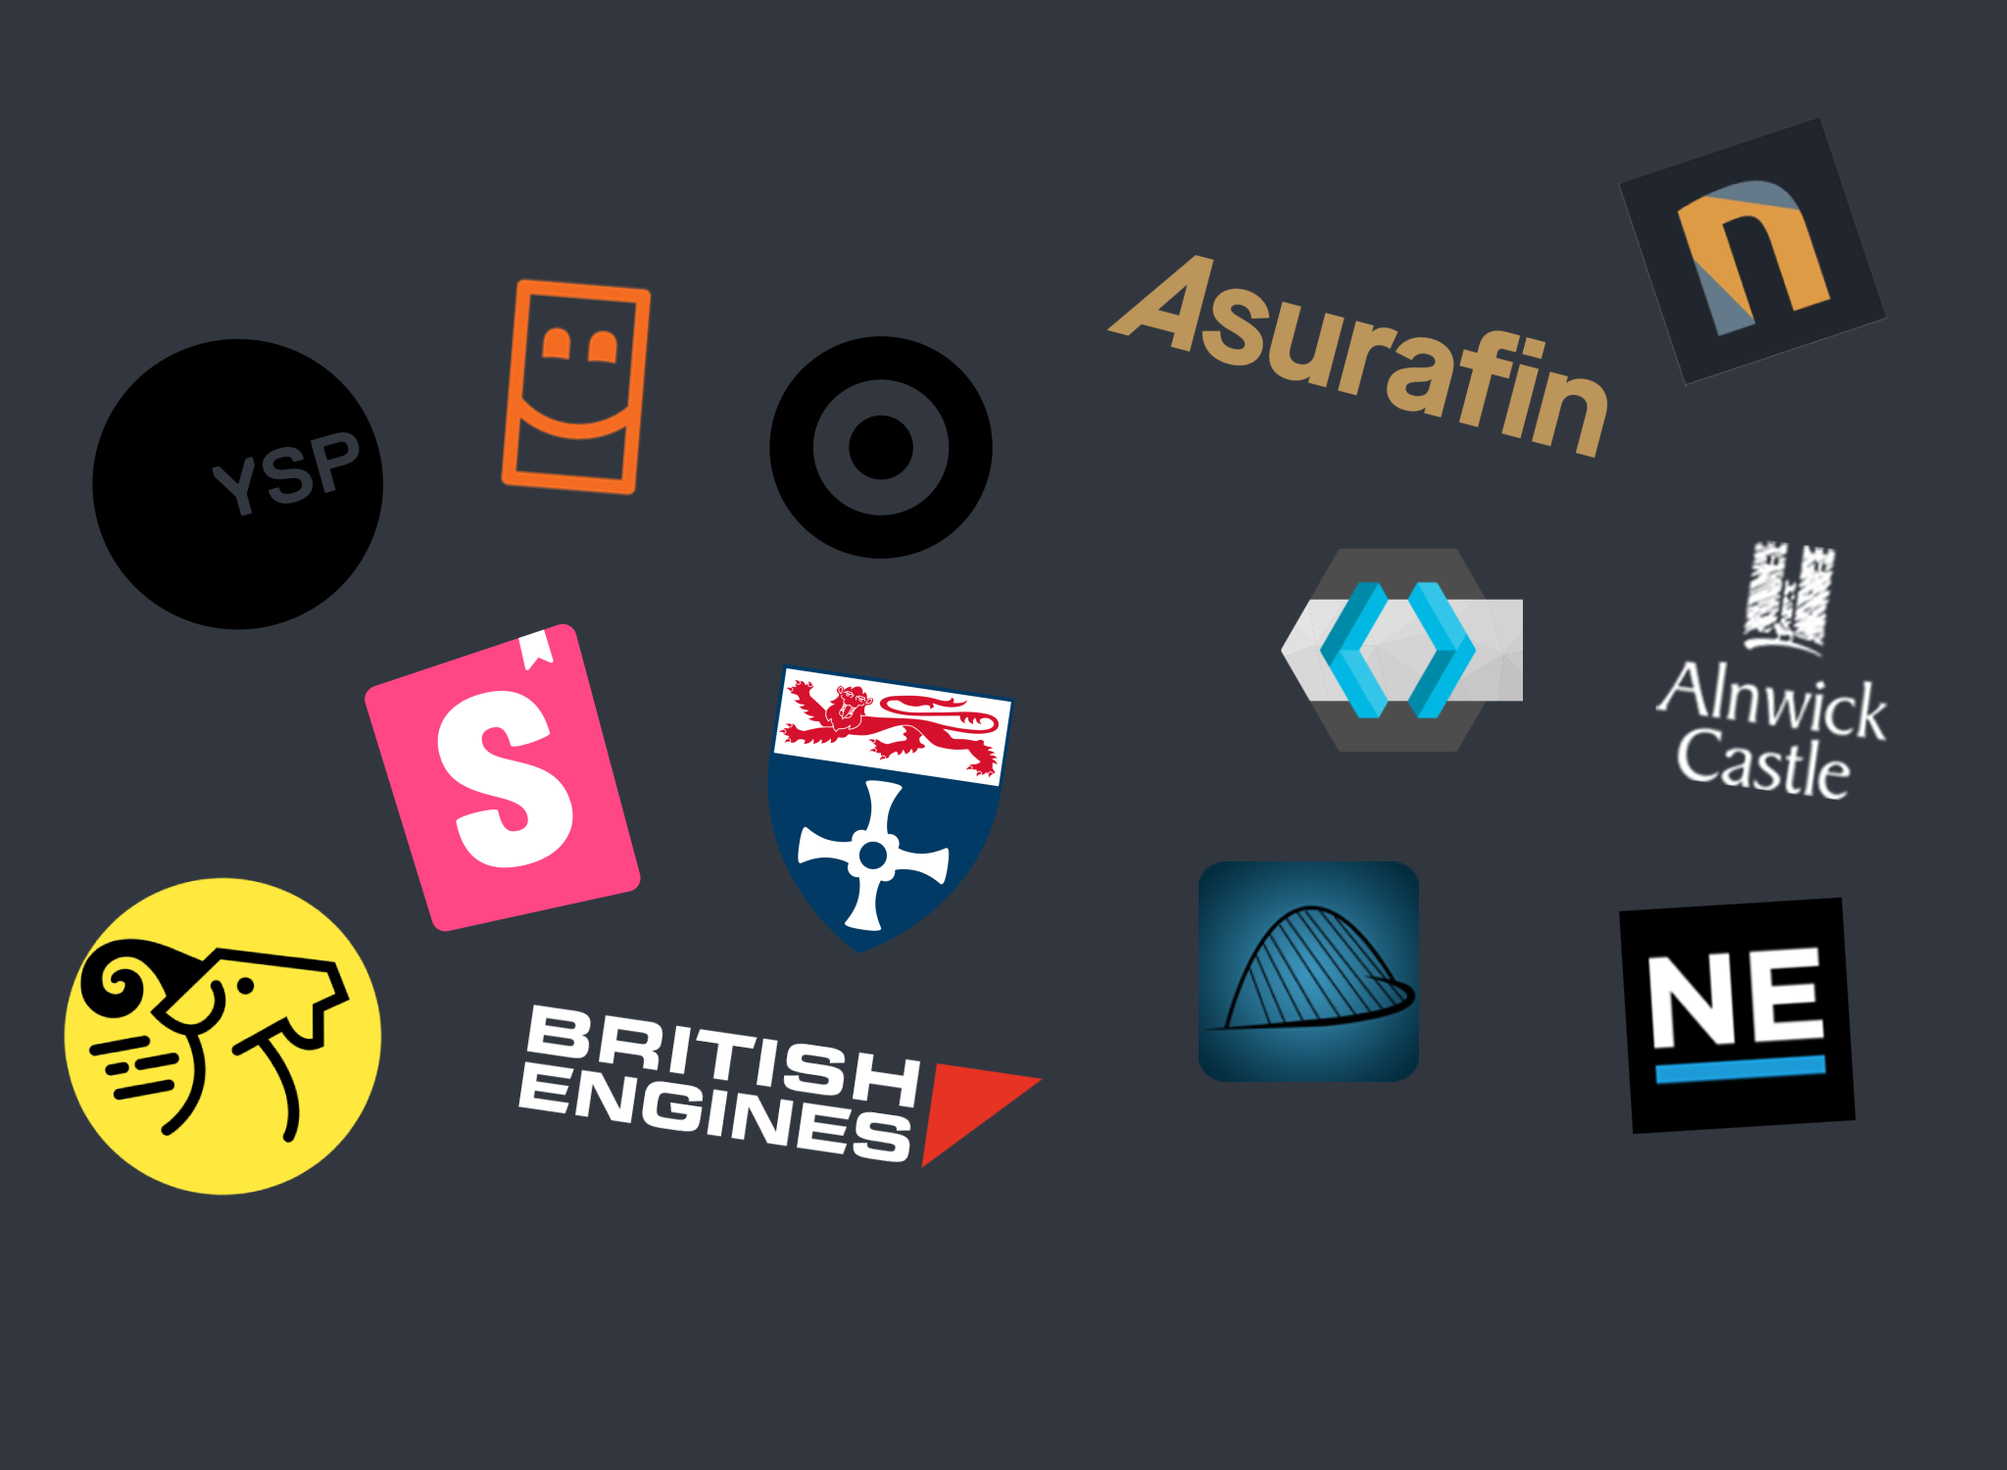
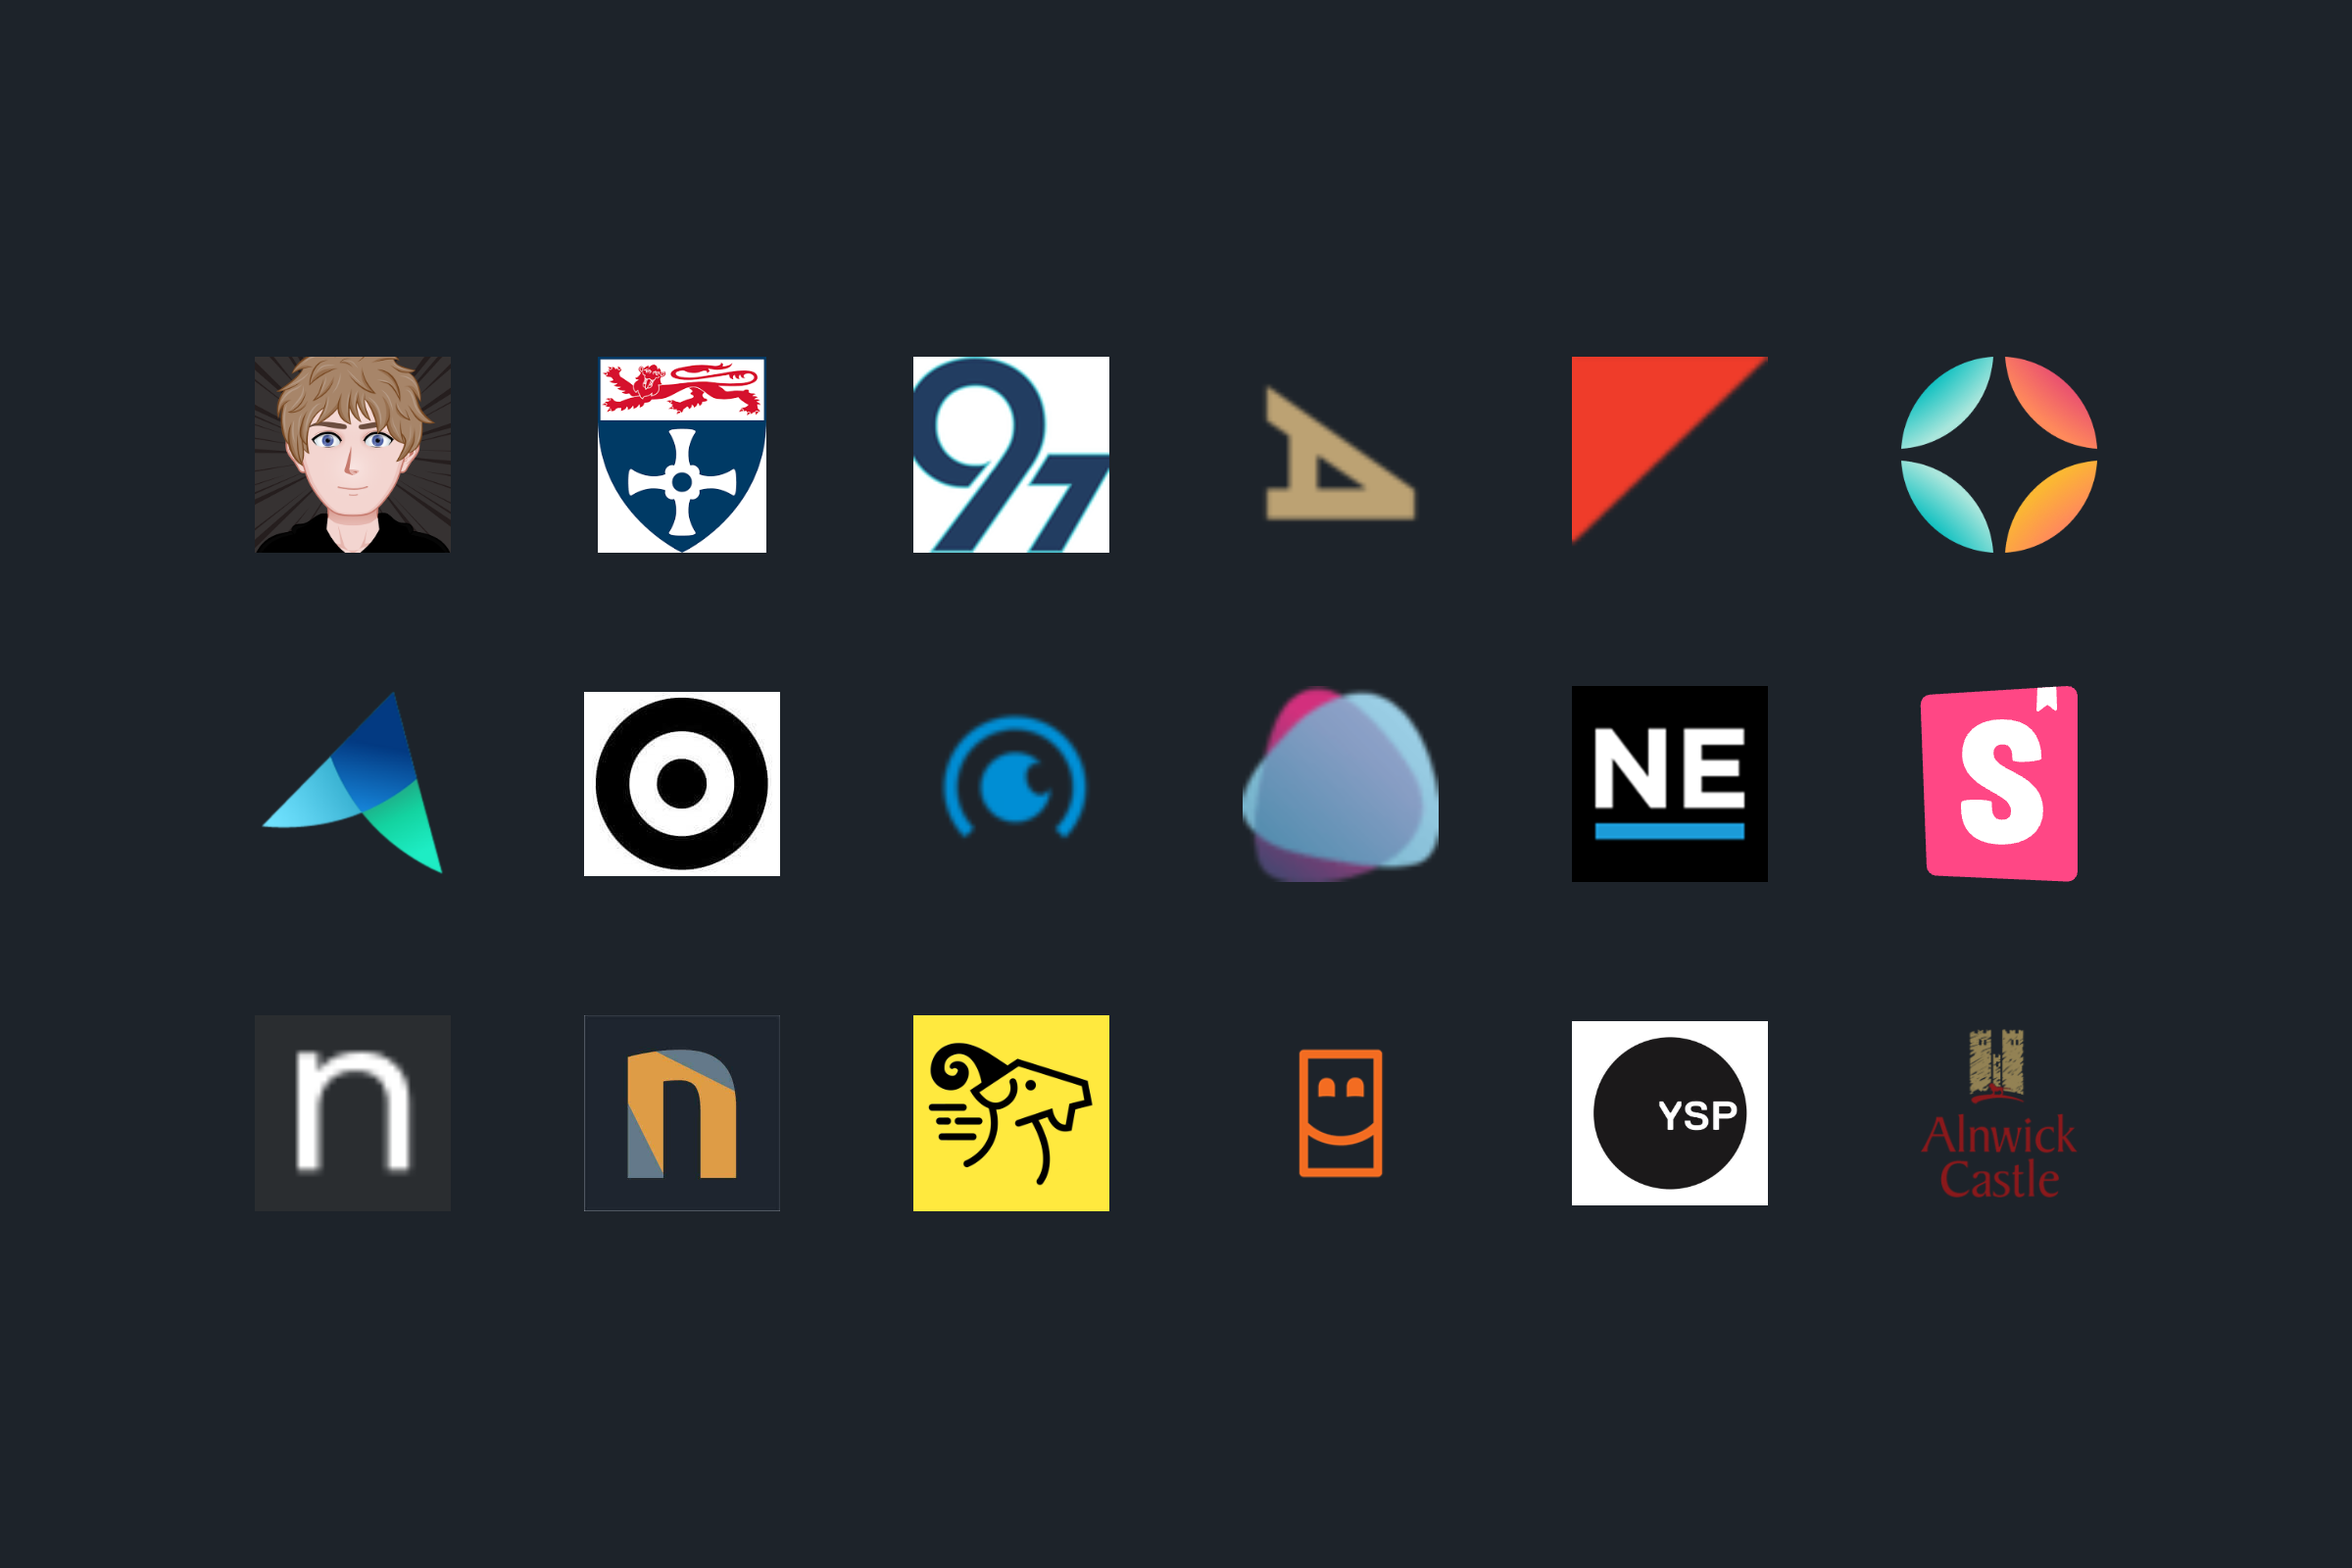
Scripts (josephpickering9/work_experience#61)

diff --git a/web/scripts/generate-logo-grid.js b/web/scripts/generate-logo-grid.js
@@ -1,0 +1,196 @@
+/* eslint-disable no-console */
+// generate-logo-grid.js
+// Fetches project and company logos from the API, renders them in a uniform
+// grid on a dark background, and saves a screenshot to public/meta.png.
+//
+// Usage:
+//   node scripts/generate-logo-grid.js [--api <url>] [--out <path>]
+//
+// Defaults:
+//   --api  http://localhost:5105
+//   --out  public/meta.png
+
+const puppeteer = require('puppeteer');
+const https = require('https');
+const http = require('http');
+const path = require('path');
+
+// --- config -----------------------------------------------------------
+const args = process.argv.slice(2);
+const getArg = (flag, fallback) => {
+  const i = args.indexOf(flag);
+  return i !== -1 ? args[i + 1] : fallback;
+};
+const API_BASE = getArg('--api', 'http://localhost:5105');
+const OUT_PATH = path.resolve(__dirname, '..', getArg('--out', 'public/meta.png'));
+const INCLUDE_SLUGS = new Set(
+  (getArg('--include', '') || '').split(',').map(s => s.trim()).filter(Boolean)
+);
+
+// --- helpers ----------------------------------------------------------
+function fetchJson(url) {
+  return new Promise((resolve, reject) => {
+    const mod = url.startsWith('https') ? https : http;
+    mod.get(url, (res) => {
+      let data = '';
+      res.on('data', (c) => (data += c));
+      res.on('end', () => {
+        try { resolve(JSON.parse(data)); }
+        catch (e) { reject(new Error(`JSON parse error for ${url}: ${e.message}`)); }
+      });
+    }).on('error', reject);
+  });
+}
+
+function logoUrl(filename) {
+  return `${API_BASE}/media/uploads/${filename}`;
+}
+
+// --- grid layout constants (must match CSS below) ---------------------
+const CELL_SIZE = 140;
+const GAP = 28;
+const MAX_WIDTH = 1100;
+const VIEWPORT_WIDTH = 1200;
+const COLUMNS = Math.floor((MAX_WIDTH + GAP) / (CELL_SIZE + GAP)); // 6
+
+// --- build HTML -------------------------------------------------------
+function buildHtml(items) {
+  const cells = items.map(({ name, url }) => /* html */`
+    <div class="cell">
+      <img src="${url}" alt="${name}" onerror="this.parentElement.style.display='none'" />
+    </div>
+  `).join('\n');
+
+  return /* html */`<!DOCTYPE html>
+<html>
+<head>
+<meta charset="utf-8"/>
+<style>
+  * { box-sizing: border-box; margin: 0; padding: 0; }
+
+  body {
+    background: #1D232A;
+    display: flex;
+    align-items: center;
+    justify-content: center;
+    min-height: 100vh;
+    padding: 48px;
+  }
+
+  .grid {
+    display: grid;
+    grid-template-columns: repeat(${COLUMNS}, ${CELL_SIZE}px);
+    gap: ${GAP}px;
+    justify-content: center;
+    max-width: ${MAX_WIDTH}px;
+    width: 100%;
+  }
+
+  .cell {
+    width: ${CELL_SIZE}px;
+    height: ${CELL_SIZE}px;
+    display: flex;
+    align-items: center;
+    justify-content: center;
+  }
+
+  .cell img {
+    width: 100px;
+    height: 100px;
+    object-fit: contain;
+  }
+</style>
+</head>
+<body>
+  <div class="grid">
+    ${cells}
+  </div>
+</body>
+</html>`;
+}
+
+// --- main -------------------------------------------------------------
+async function main() {
+  console.log(`Fetching data from ${API_BASE}…`);
+
+  const [projects, companies] = await Promise.all([
+    fetchJson(`${API_BASE}/project`),
+    fetchJson(`${API_BASE}/company`),
+  ]);
+
+  // Build a set of company IDs that have a logo, so we can skip their projects
+  const companiesWithLogo = new Set(companies.filter(c => c.logo).map(c => c.id));
+
+  const items = [];
+
+  // One entry per company (with a logo)
+  for (const company of companies) {
+    if (company.logo) {
+      items.push({ name: company.name, url: logoUrl(company.logo) });
+    }
+  }
+
+  // Projects that have no company, or whose company has no logo
+  for (const project of projects) {
+    if (project.logoUrl && !companiesWithLogo.has(project.companyId)) {
+      items.push({ name: project.title, url: logoUrl(project.logoUrl) });
+    }
+  }
+
+  // Explicitly included projects by slug (even if their company already has a logo)
+  if (INCLUDE_SLUGS.size > 0) {
+    const includedSlugs = [];
+    for (const project of projects) {
+      if (INCLUDE_SLUGS.has(project.slug) && project.logoUrl) {
+        // Avoid exact file duplicates but allow overriding company deduplication
+        if (!items.some(i => i.url === logoUrl(project.logoUrl))) {
+          items.push({ name: project.title, url: logoUrl(project.logoUrl) });
+          includedSlugs.push(project.slug);
+        }
+      }
+    }
+    const missing = [...INCLUDE_SLUGS].filter(s => !includedSlugs.includes(s));
+    if (missing.length) console.warn(`Warning: no logo found for slugs: ${missing.join(', ')}`);
+  }
+
+  // Auto-fill remaining slots to complete the last row
+  const usedUrls = new Set(items.map(i => i.url));
+  for (const project of projects) {
+    if (items.length % COLUMNS === 0) break;
+    if (project.logoUrl && !usedUrls.has(logoUrl(project.logoUrl))) {
+      items.push({ name: project.title, url: logoUrl(project.logoUrl) });
+      usedUrls.add(logoUrl(project.logoUrl));
+    }
+  }
+
+  if (items.length === 0) {
+    console.error('No logos found — check that the API is running and has data.');
+    process.exit(1);
+  }
+
+  console.log(`Found ${items.length} logos (${companies.filter(c => c.logo).length} companies + ${items.length - companies.filter(c => c.logo).length} projects)`);
+
+  const html = buildHtml(items);
+
+  const browser = await puppeteer.launch({ headless: true });
+  const page = await browser.newPage();
+
+  // Set a wide initial viewport so the grid fills out before we measure
+  await page.setViewport({ width: VIEWPORT_WIDTH, height: 800, deviceScaleFactor: 2 });
+  await page.setContent(html, { waitUntil: 'load' });
+
+  // Measure actual content height and lock the viewport to it
+  const bodyHeight = await page.evaluate(() => document.body.scrollHeight);
+  await page.setViewport({ width: VIEWPORT_WIDTH, height: bodyHeight, deviceScaleFactor: 2 });
+
+  await page.screenshot({ path: OUT_PATH, fullPage: true });
+
+  await browser.close();
+
+  console.log(`Screenshot saved to ${OUT_PATH}`);
+}
+
+main().catch((err) => {
+  console.error(err);
+  process.exit(1);
+});

diff --git a/web/nuxt.config.ts b/web/nuxt.config.ts
@@ -48,6 +48,12 @@ export default defineNuxtConfig({
     '@vite-pwa/nuxt',
     '@nuxt/eslint',
     '@nuxt/image',
+    ['nuxt-umami', {
+      id: process.env['NUXT_PUBLIC_UMAMI_ID'] ?? '',
+      host: 'https://cloud.umami.is',
+      autoTrack: true,
+      ignoreLocalhost: true,
+    }],
   ],
 
   vite: {

diff --git a/web/README.md b/web/README.md
@@ -1,6 +1,6 @@
 # Work Experience (Frontend)
 
-A Nuxt 3 portfolio application showcasing my professional projects and the technologies used across them. Originally built as a personal tool to search projects by technology, it has evolved into a full portfolio with AI-powered search, company timelines, and a CMS for managing content.
+A Nuxt 4 portfolio application showcasing my professional projects and the technologies used across them. Originally built as a personal tool to search projects by technology, it has evolved into a full portfolio with AI-powered search, company timelines, and a CMS for managing content.
 
 Linked to the [Work Experience API](https://github.com/josephpickering9/work_experience_api).
 
@@ -20,7 +20,7 @@ Linked to the [Work Experience API](https://github.com/josephpickering9/work_exp
 
 ## Features
 
-- **Server-Side Rendering** via Nuxt 3 for fast load times and SEO
+- **Server-Side Rendering** via Nuxt 4 for fast load times and SEO
 - **AI Search** powered by Vertex AI — query projects in natural language
 - **Company Timelines** — visual history of roles and projects per company
 - **CMS** — authenticated users can create, update, and delete projects, companies, and technologies
@@ -34,7 +34,7 @@ Linked to the [Work Experience API](https://github.com/josephpickering9/work_exp
 
 | Layer | Technology |
 |---|---|
-| Framework | Nuxt 3, Vue 3 |
+| Framework | Nuxt 4, Vue 3 |
 | Styling | Tailwind CSS, daisyUI |
 | State | Pinia (with persisted state) |
 | Auth | Auth0 |
